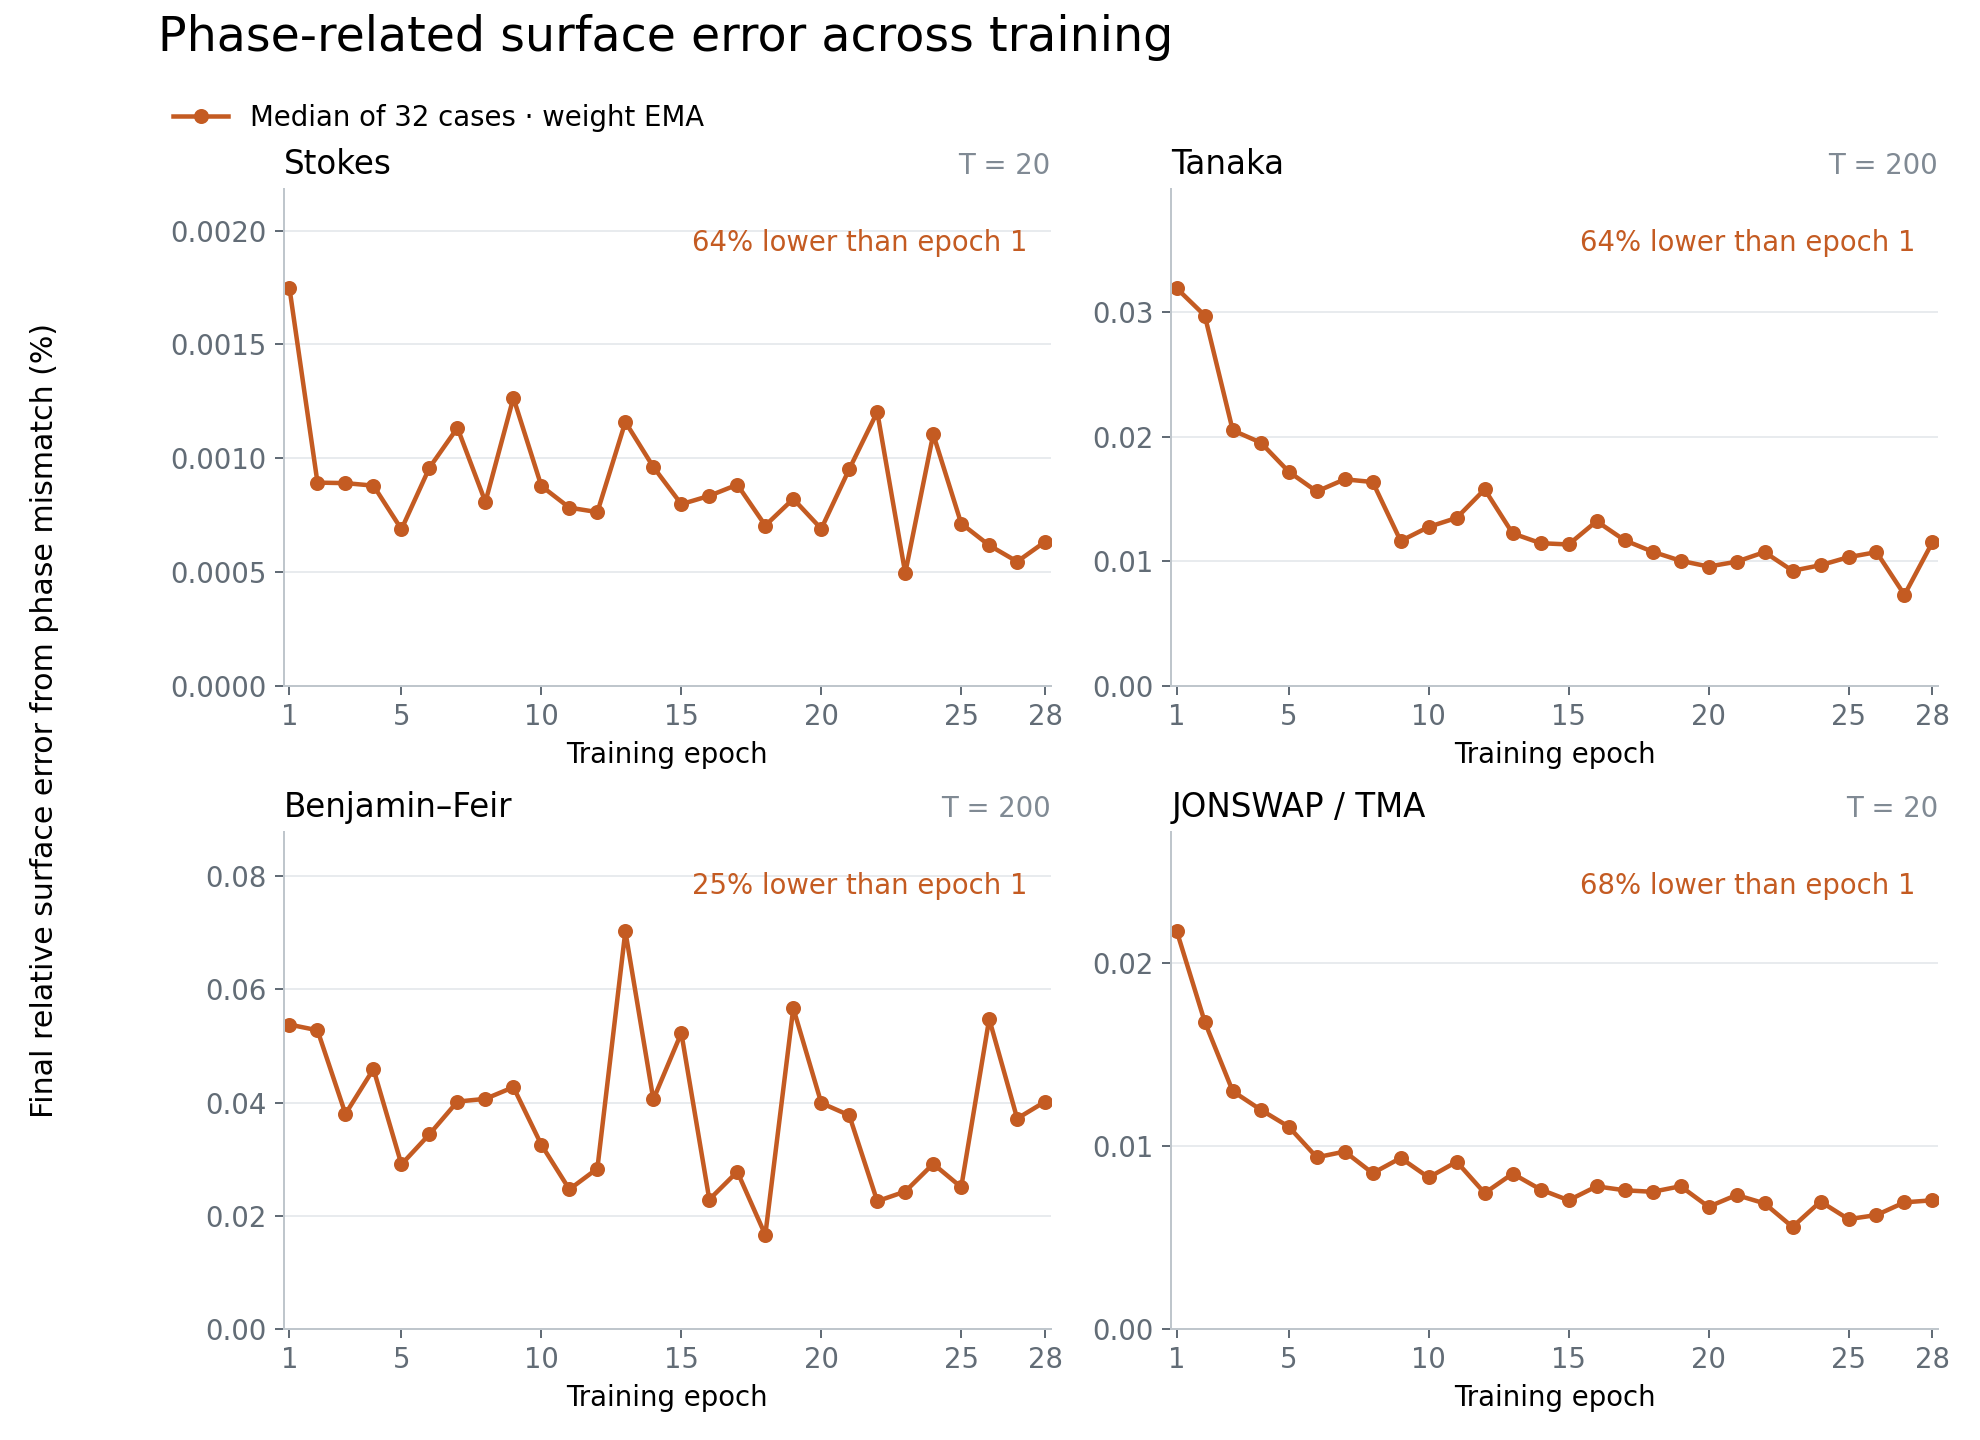
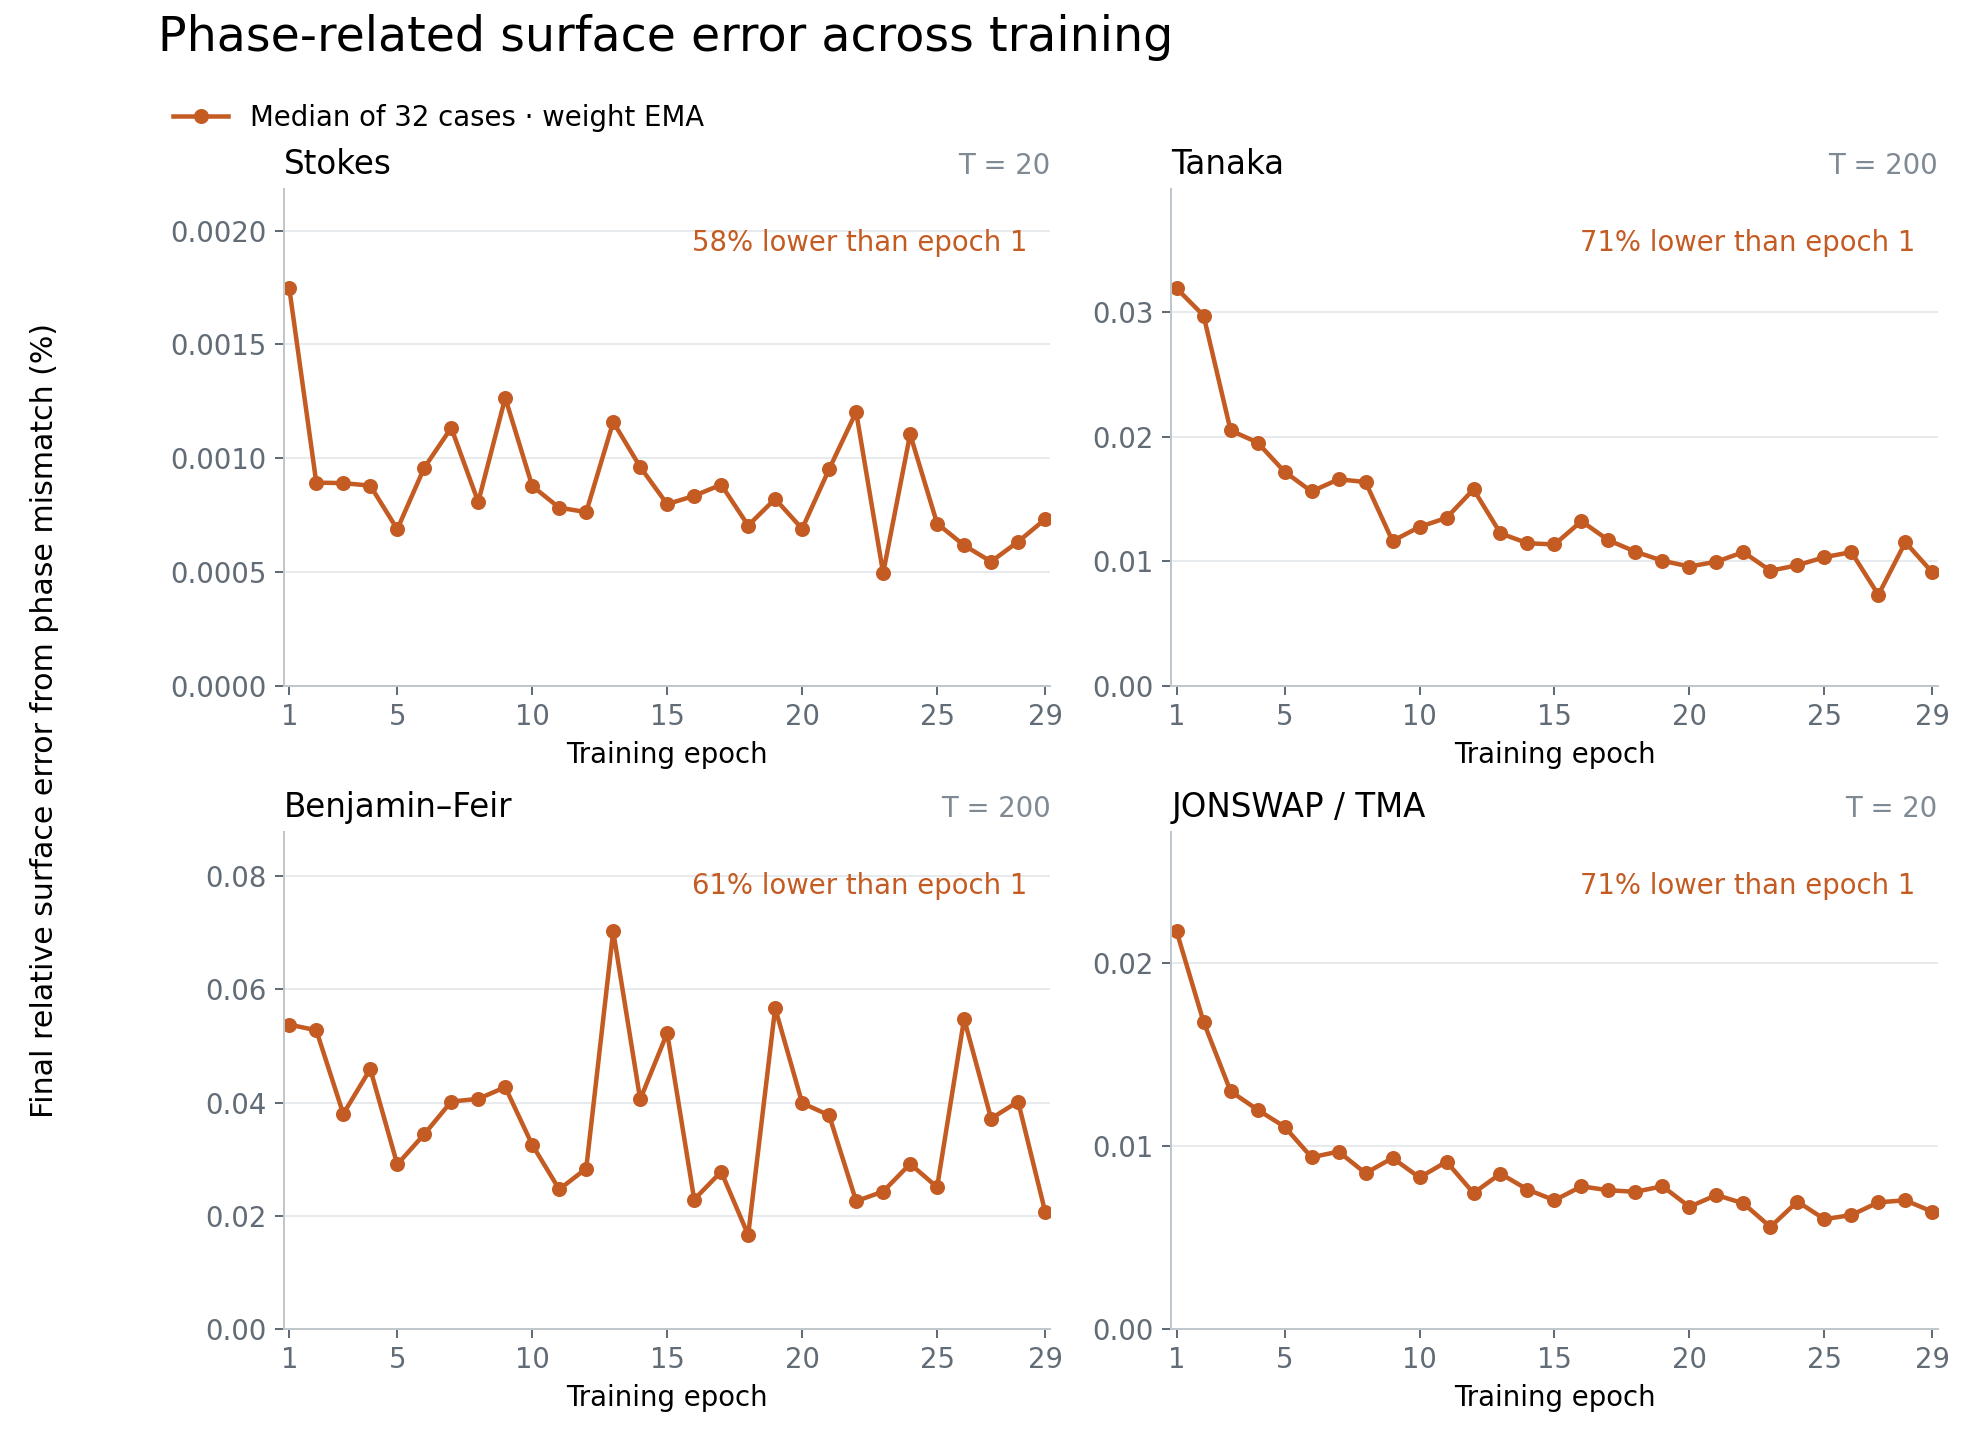
Record epoch 29 EMA evaluation and refresh phase history

diff --git a/paper-plots/plot_phase_diagnostics.py b/paper-plots/plot_phase_diagnostics.py
@@ -75,7 +75,7 @@ def main() -> None:
         "pdf.fonttype": 42, "ps.fonttype": 42,
     })
     if args.phase_training:
-        epochs = np.arange(1, 29)
+        epochs = np.arange(1, 30)
         evaluations = [
             ROOT / "outputs/c27_phase1_lr8_momentum_half_ema995_grad05_adam05_b2099_batch16_hd04_band128_nested1_gamma32_full_20261012/eval_fast_weight_ema_nestedfused_contextbatch",
             *(ROOT / f"outputs/c27_nested_b16_ema_low_lr_continue_20261014/eval_epoch{epoch}_weight_ema" for epoch in (2, 3)),

diff --git a/experiments/experiments-2026-10-17.md b/experiments/experiments-2026-10-17.md
@@ -1,0 +1,7 @@
+# Experiments — 2026-10-17
+
+Epoch 23 remains the aggregate rollout best through epoch 29 under the approved low-LR continuation. Figure 12c retains epoch-23 weight EMA and unchanged measured Ada timings; Figure 22 includes epochs 1–29. Epoch 29 improves pooled terminal surface error by 15.2% over 28 but remains 4.7% worse than 23. Best validation is now 29, with patience 0/5; epoch 30 resumed automatically. The longer-run experiment remains ongoing.
+
+| Date | Time | File / Variant | Motivation | What Tried / Evidence | Correctness | Timing | Decision |
+| --- | --- | --- | --- | --- | --- | --- | --- |
+| 2026-10-17 | 01:40 | `outputs/c27_nested_b16_ema_low_lr_ep60_20261014`: epoch 29 primary EMA; Figure 22 | Test whether continued low-LR training preserves the first-epoch gains and improves the selected rollout checkpoint; refresh the requested phase-history plot. | All128 EMA rollouts complete. Pooled eta/xi GM29/23=1.046941/1.074524 (73/70 wins),29/28=.847672/.853080 (83/81),29/1=.391626/.391321 (110/111). Eta/M2=.183063 (105 wins),eta/M3=.771422 (70). Family eta29/23 S/T/BF/J=1.138725/1.074869/1.093940/.897267: JONSWAP improves10.3%, the other families regress by GM. Eta median/p95 percent: .000736778/.010651022, .009862310/.277305311, .024679584/.078966619, .007583228/.054419980. Pooled eta GM/median/p95=.006730551/.008407052/.079623502%; xi GM=.005335512%. Whole-trajectory eta29/23=1.029700; exact phase=1.081229,amplitude=.956623. Validation selection improves.7423% over27 to1.207526151e-5, best29,patience0/5. | Independent CPU audit verifies matching128 IDs/times/depths across23/28/E1/M2/M3, finite fields, valid references, positive water depth, no configured failures and exact terminal eta/xi/Gxi norms. Root independently reproduces terminal/trajectory errors and the direct Fourier phase/amplitude identity. All six counters21381555 and all52 EMA arrays/40384 scalars match latest/export/best shadows; gradient EMA remains finite. LR8e-6,gradientEMA.5,weightEMA.995 and full-loss detached rollout supervision unchanged. Figure12c retains23 and unchanged measured B1 timings. Figure22 includes29; phase medians .000731801/.009104985/.020730413/.006392451%, respectively58.1/71.5/61.5/70.6% below1. Fixed-case29 eta percent .000071977/.385451299/.065818135/.015271877; these four cases do not select the checkpoint. | Training02:04, finished between observed01:30–01:31; validation/export01:34; EMA rollouts and automatic epoch30 resume01:37. CPU audits/render01:35 onward; no new GPU timing. | MERGE phase-plot refresh; retain23 as rollout best across all128 cases. Continue approved60-epoch ceiling and validation-patience-five rule unchanged; sustained60–120-epoch transfer remains unproven. |

diff --git a/paper-plots/README.md b/paper-plots/README.md
@@ -435,7 +435,7 @@ UV_CACHE_DIR=/tmp/codex-uv-cache uv run --no-sync paper-plots/plot_neural_advant
 
 Figure 12c compares the Ada classical solver, epoch-23 EMA candidate, and older
 rollout-supervised network. Epoch 23 is the best overall evaluated checkpoint
-through epoch 28 by pooled geometric-mean terminal surface error across the 128 cases;
+through epoch 29 by pooled geometric-mean terminal surface error across the 128 cases;
 each panel still displays the fixed timed case, not the family median. Runtime
 measurements are unchanged for the same inference path. It omits the RMS/context
 and spectral-DNO models and historical timing annotations:
@@ -760,18 +760,17 @@ OPENBLAS_NUM_THREADS=1 OMP_NUM_THREADS=1 UV_CACHE_DIR=/tmp/dno-uv-cache \
 [PNG](figures/22-phase-error-vs-training.png) / [PDF](figures/22-phase-error-vs-training.pdf)
 
 Terminal Fourier-phase error for primary weight-EMA checkpoints at every epoch
-from 1 through 28, using the same 32 cases per family. The y axis uses Figure 20's
+from 1 through 29, using the same 32 cases per family. The y axis uses Figure 20's
 relative-error magnitude, not the percentage of total squared error. Each point
 is the median of `100*sqrt(phase_energy/reference_energy)` at the final rollout
-time. All twenty-eight measurements are shown; the curves are not monotonic.
-Epoch-28 median errors are 0.000633389%, 0.011529%, 0.0401569% and
-0.00701778% for Stokes, Tanaka, Benjamin–Feir and JONSWAP/TMA, respectively
-63.7%, 63.9%, 25.3% and 67.7% below epoch 1. Against epoch 23, pooled
-geometric-mean terminal surface error rises 23.5% and phase-related error rises
-27.8%; terminal surface error also rises 5.4% over epoch 27. Figure 12c therefore
+time. All twenty-nine measurements are shown; the curves are not monotonic.
+Epoch-29 median errors are 0.000731801%, 0.00910498%, 0.0207304% and
+0.00639245% for Stokes, Tanaka, Benjamin–Feir and JONSWAP/TMA, respectively
+58.1%, 71.5%, 61.5% and 70.6% below epoch 1. Against epoch 23, pooled
+geometric-mean terminal surface error rises 4.7% and phase-related error rises
+8.1%; terminal surface error improves 15.2% over epoch 28. Figure 12c therefore
 retains epoch 23, the best checkpoint selected using all 128 cases rather than
-the four plotted cases, even though all four timed cases improve at epoch 28.
-Validation loss rises 1.47% from epoch 27, which remains the validation best;
+the four plotted cases. Epoch 29 sets a new validation best, 0.74% below epoch 27;
 validation loss does not select the best rollout checkpoint.
 
 ```sh

diff --git a/EXPERIMENTS.md b/EXPERIMENTS.md
@@ -33,10 +33,11 @@ could not be recovered at all are in
 
 ## Dated logs
 
-98 files, 1627 rows.
+99 files, 1628 rows.
 
 | Date | Rows | File | Size |
 | --- | --- | --- | --- |
+| 2026-10-17 | 1 | [`experiments/experiments-2026-10-17.md`](experiments/experiments-2026-10-17.md) | 3 KB |
 | 2026-10-16 | 12 | [`experiments/experiments-2026-10-16.md`](experiments/experiments-2026-10-16.md) | 23 KB |
 | 2026-10-15 | 37 | [`experiments/experiments-2026-10-15.md`](experiments/experiments-2026-10-15.md) | 64 KB |
 | 2026-10-14 | 16 | [`experiments/experiments-2026-10-14.md`](experiments/experiments-2026-10-14.md) | 38 KB |
